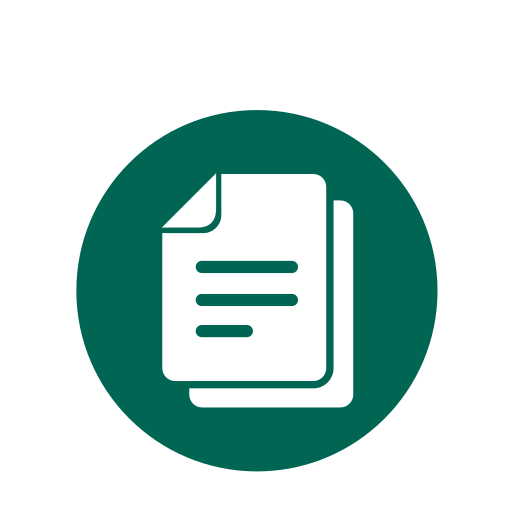
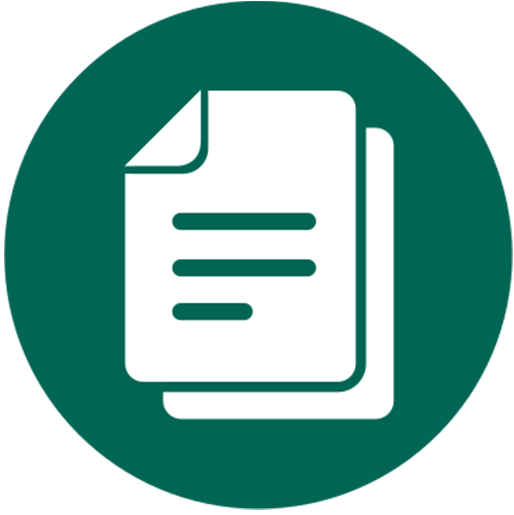
Update Landing Page
+ Install Swiper
+ Add Swiper and CardIframe for embed Youtube video
+ Update images

diff --git a/src/pages/index.js b/src/pages/index.js
@@ -1,8 +1,17 @@
 import * as React from "react";
 import { Link, graphql } from "gatsby";
 
+// Import Swiper React components
+import { Navigation } from 'swiper';
+import { Swiper, SwiperSlide } from 'swiper/react';
+
+// Import Swiper styles
+import 'swiper/css';
+import 'swiper/css/navigation';
+
 import Layout from "../components/layouts/AppLayout";
 import Seo from "../components/Seo";
+import CardIframe from "../components/CardIframe";
 
 import paperIcon from "../images/paper.png";
 import plasticIcon from "../images/plastics.png";
@@ -14,46 +23,87 @@ import batteryIcon from "../images/car-battery-icon.jpg";
 const Index = ({ data, location }) => {
   const siteTitle = data.site.siteMetadata?.title || `Title`;
 
+  const videoList1 = [];
+  const videoList2 = [];
+
+  for (let i = 0; i < 4; i++) {
+    videoList1.push({
+      cardTitle: 'Get better to recycle',
+      embedUrl: 'https://www.youtube.com/embed/lZCXfWPtY78'
+    });
+    videoList2.push({
+      cardTitle: 'Understand Recycle',
+      embedUrl: 'https://www.youtube.com/embed/Umu-Hhv6qPA'
+    });
+  }
+
   return (
     <Layout location={location} title={siteTitle}>
       <Seo title="Better Recycle Info Hub" />
       <div className="grid grid-cols-3 gap-4 mx-auto justify-center w-1/2">
         <Link to="/">
           <div className="text-center">
-            <img src={paperIcon} className="w-48 mx-auto group-hover:scale-125" />
+            < img src={paperIcon} className="w-48 mx-auto my-4 transform hover:scale-110 transition duration-300" />
             Paper
           </div>
         </Link>
         <Link to="/">
           <div className="text-center">
-            <img src={plasticIcon} className="w-48 mx-auto group-hover:scale-125" />
+            <img src={plasticIcon} className="w-48 mx-auto my-4 transform hover:scale-110 transition duration-300" />
             Plastics
           </div>
         </Link>
         <Link to="/">
           <div className="text-center">
-            <img src={glassIcon} className="w-48 mx-auto group-hover:scale-125" />
+            <img src={glassIcon} className="w-48 mx-auto my-4 transform hover:scale-110 transition duration-300" />
             Glass
           </div>
         </Link>
         <Link to="/">
           <div className="text-center">
-            <img src={metalIcon} className="w-48 mx-auto group-hover:scale-125" />
-            Metal
+            <img src={metalIcon} className="w-48 mx-auto my-4 transform hover:scale-110 transition duration-300" />
+            Tin &amp; Metal
           </div>
         </Link>
         <Link to="/">
-          <div className="text-center">
-            <img src={electronicIcon} className="w-48 mx-auto group-hover:scale-125" />
+          <div className="text-center ">
+            <img src={electronicIcon} className="w-48 mx-auto my-4 transform hover:scale-110 transition duration-300" />
             Electronics
           </div>
         </Link>
         <Link to="/">
           <div className="text-center">
-            <img src={batteryIcon} className="w-48 mx-auto group-hover:scale-125" />
+            <img src={batteryIcon} className="w-48 mx-auto my-4 transform hover:scale-110 transition duration-300" />
             Battery
           </div>
         </Link>
+      </div>
+      <div className="mx-auto mt-24">
+        <h1 className="text-2xl text-center font-bold">Sample Video Carousel</h1>
+        <Swiper modules={[Navigation]} loop navigation className="w-3/4">
+          <SwiperSlide>
+            <div className="grid grid-cols-4 gap-8 w-5/6 mx-auto">
+              {videoList1.map(({ cardTitle, embedUrl }, index) => (
+                <CardIframe
+                  key={index}
+                  cardTitle={cardTitle}
+                  embedUrl={embedUrl}
+                ></CardIframe>
+              ))}
+            </div>
+          </SwiperSlide>
+          <SwiperSlide>
+            <div className="grid grid-cols-4 gap-8 w-5/6 mx-auto">
+              {videoList2.map(({ cardTitle, embedUrl }, index) => (
+                <CardIframe
+                  key={index}
+                  cardTitle={cardTitle}
+                  embedUrl={embedUrl}
+                ></CardIframe>
+              ))}
+            </div>
+          </SwiperSlide>
+        </Swiper>
       </div>
     </Layout>
   );

diff --git a/src/components/CardIframe.js b/src/components/CardIframe.js
@@ -1,0 +1,14 @@
+import React from "react";
+
+const CardIframe = ({ cardTitle, embedUrl }) => (
+  <div className="card shadow-lg">
+    <figure>
+      <iframe width="100%" height="200" src={embedUrl} title="YouTube video player" frameBorder="0" allow="accelerometer; autoplay; clipboard-write; encrypted-media; gyroscope; picture-in-picture" allowFullScreen></iframe>
+    </figure>
+    <div className="card-body">
+      <div className="card-title">{cardTitle}</div>
+    </div>
+  </div>
+);
+
+export default CardIframe;
